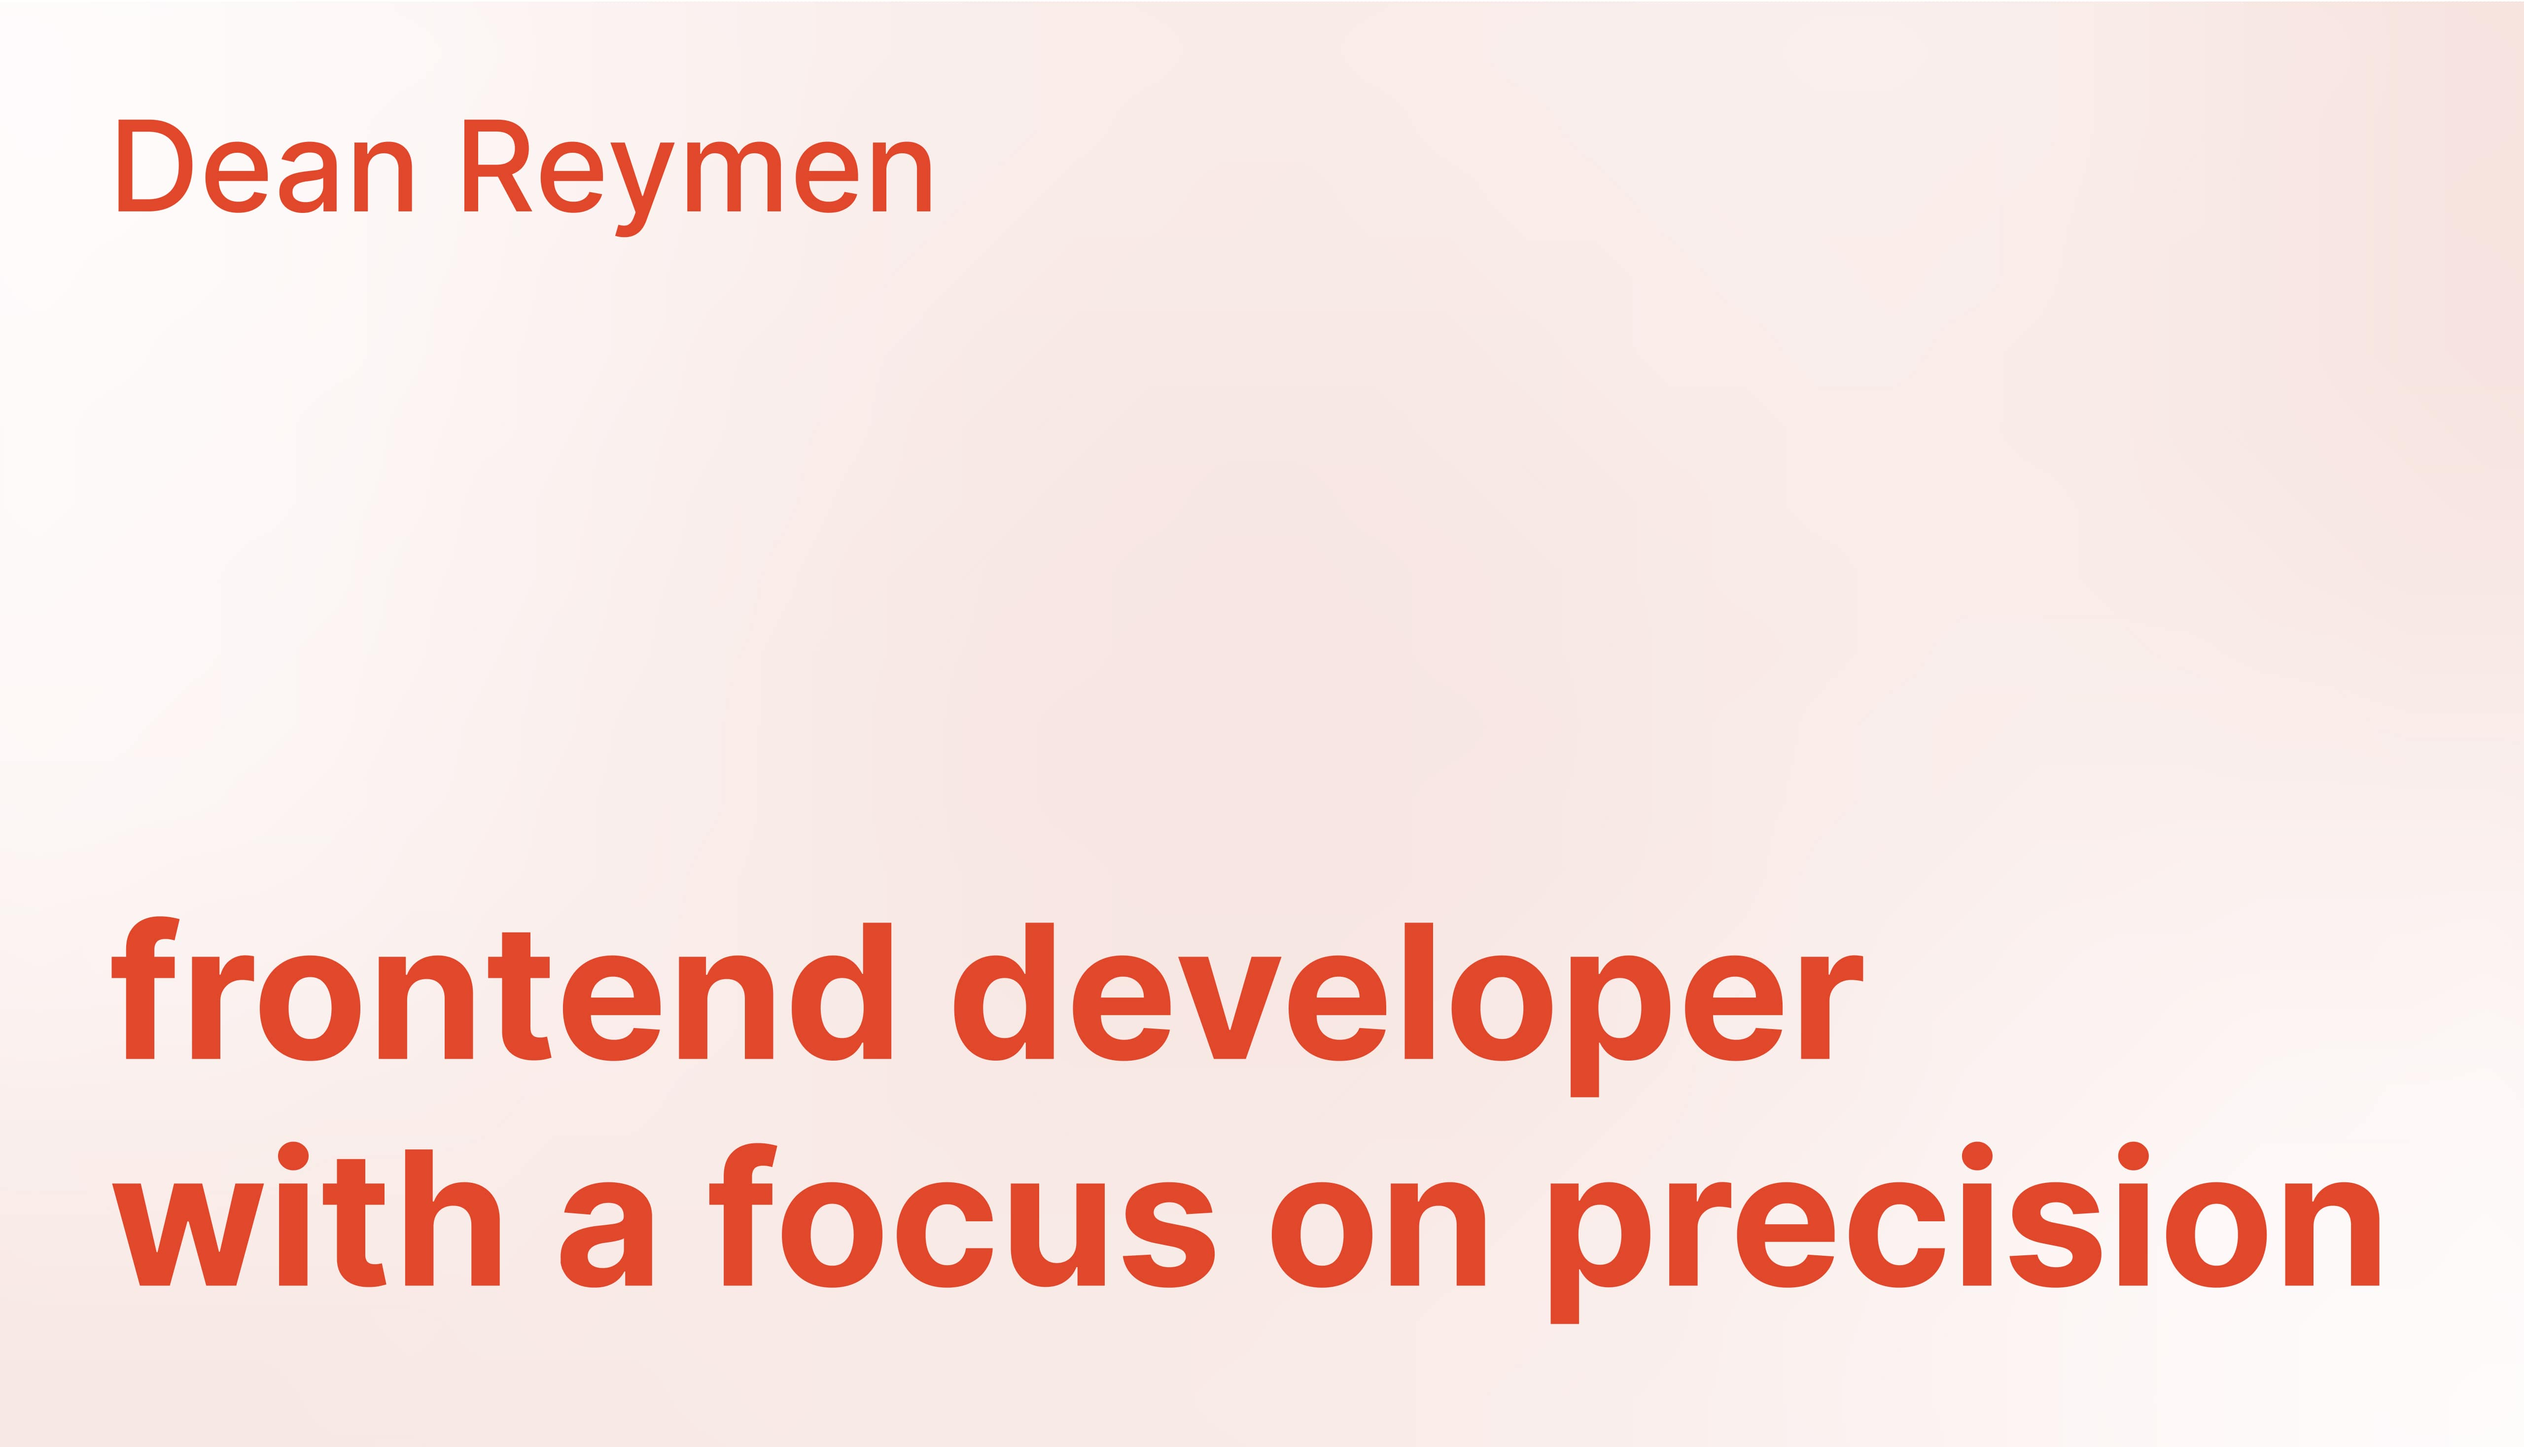
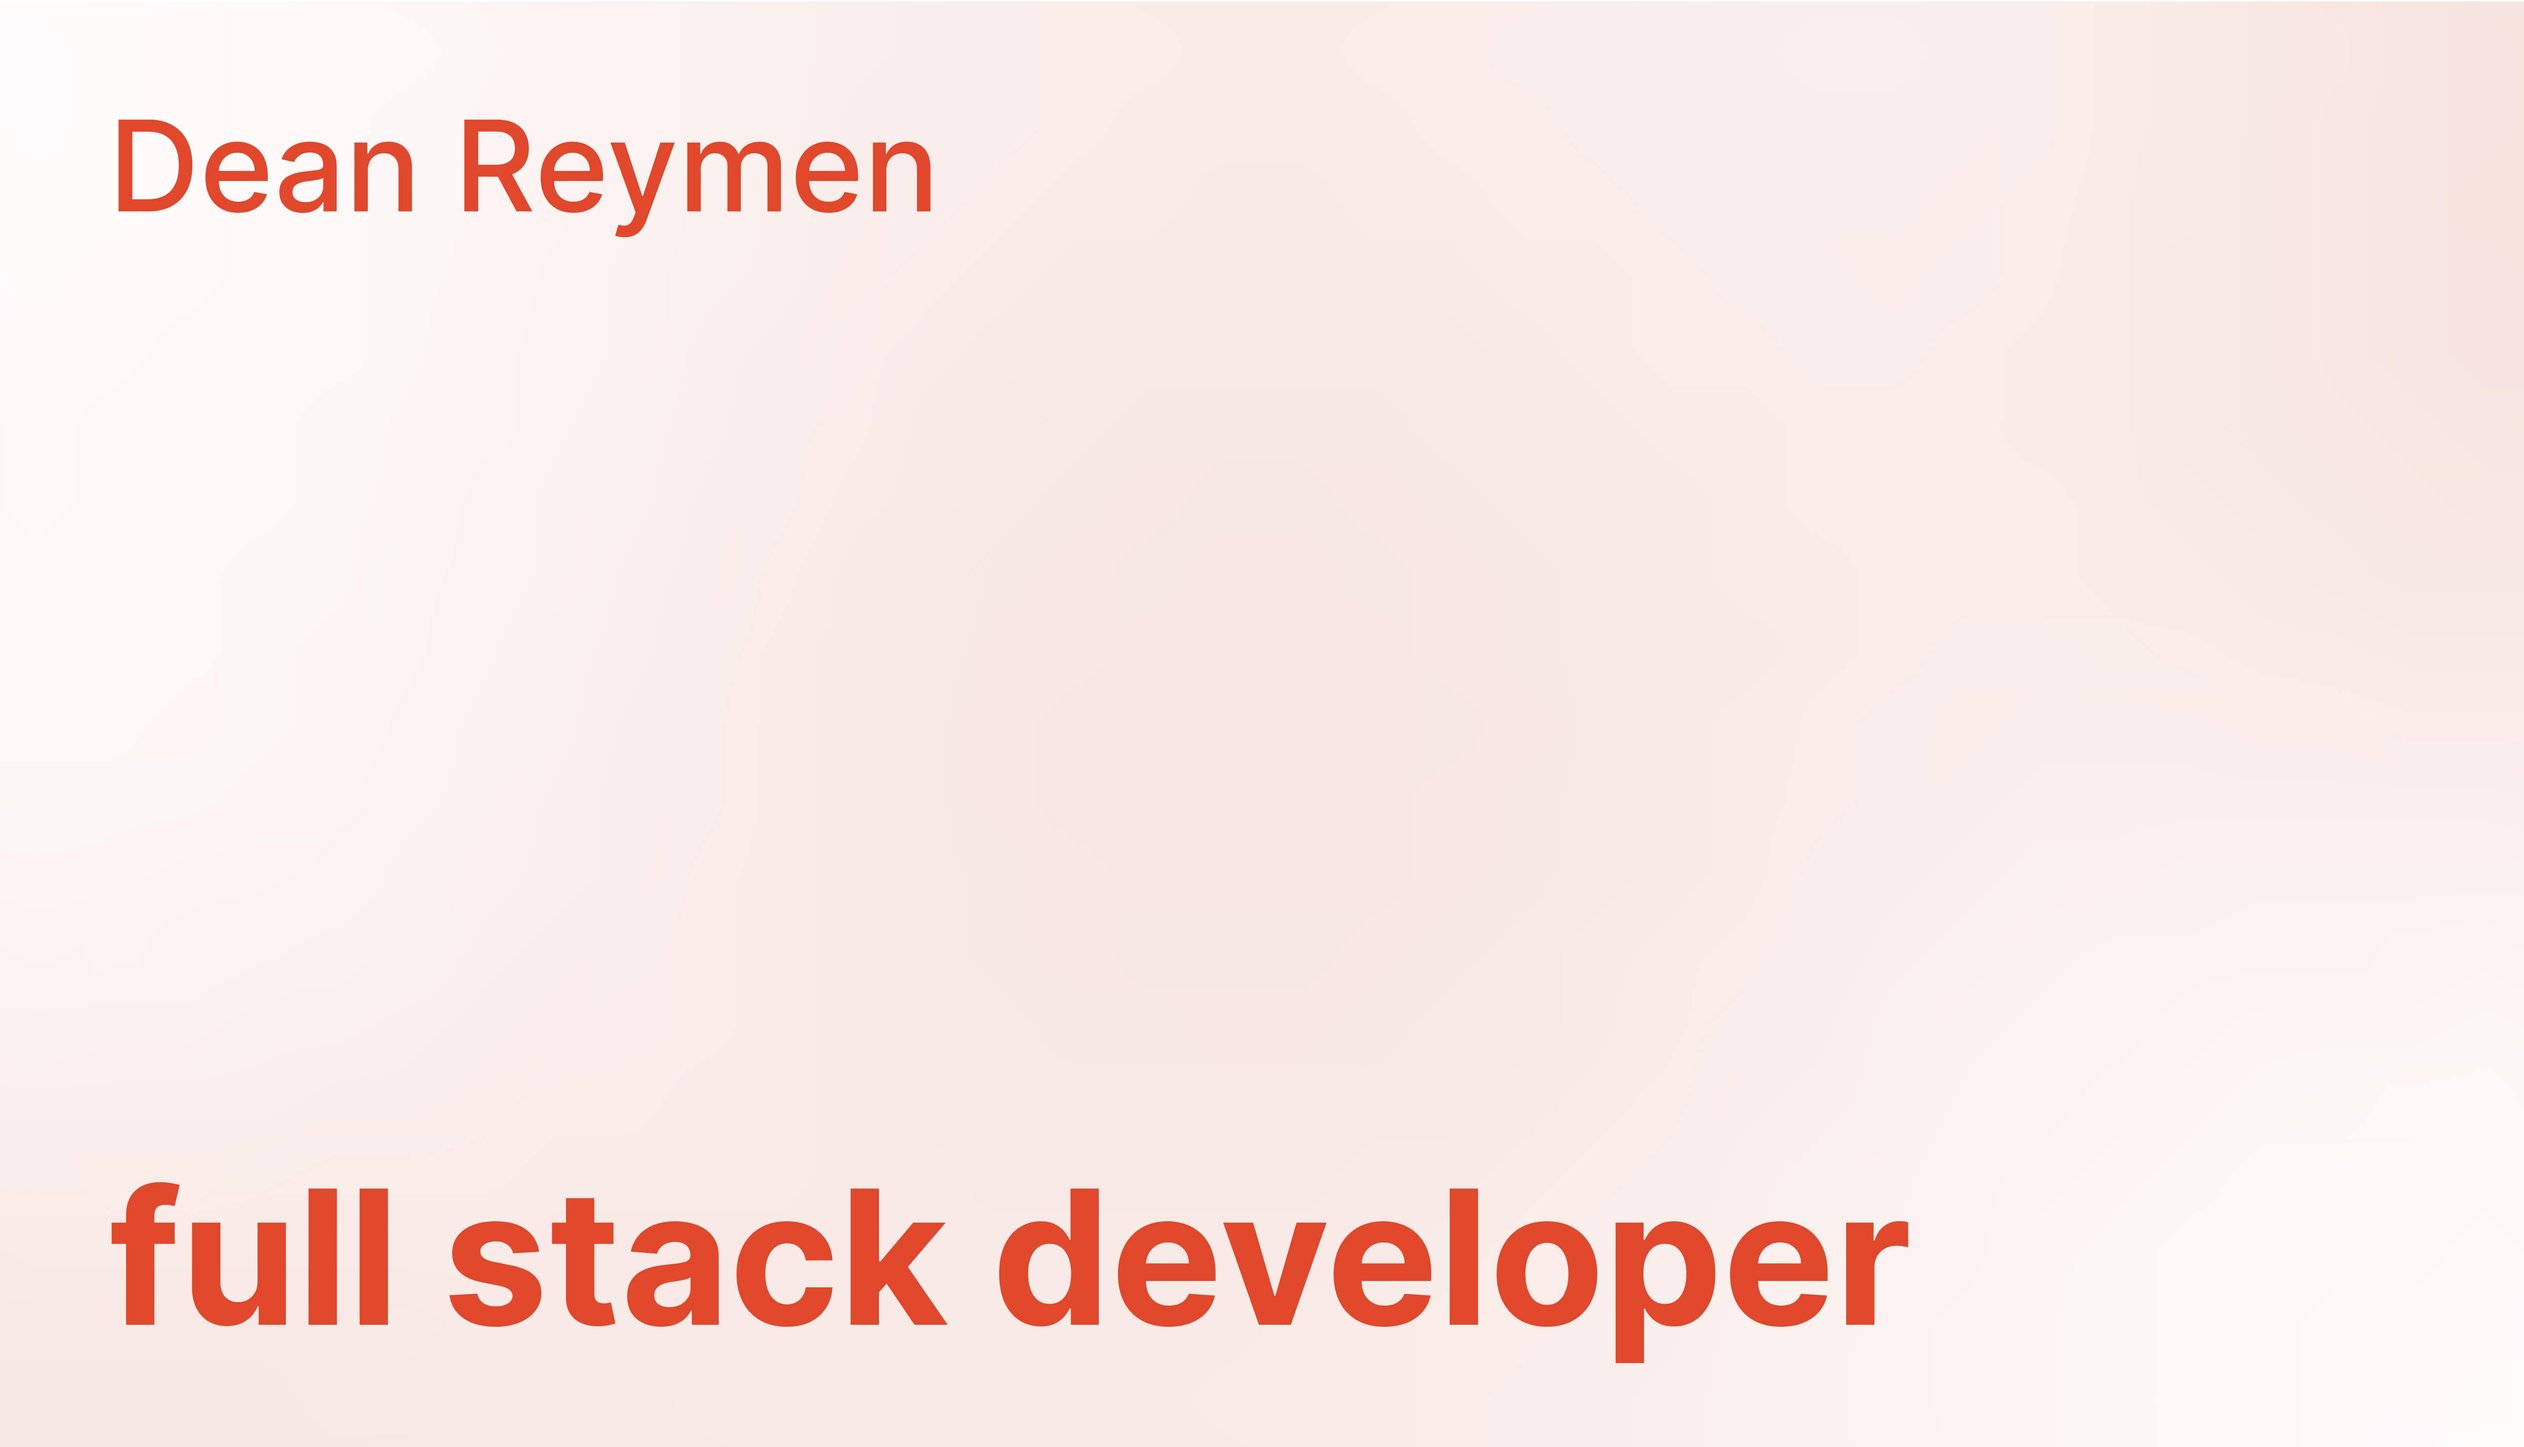
feat: update info

Changed region(s): [[0.0312, 0.7749, 0.9688, 0.9608], [0.0312, 0.6199, 0.75, 0.7749]]

diff --git a/index.html b/index.html
@@ -7,12 +7,12 @@
     <link rel="preload" href="/background-dark.svg" as="image" />
     <link rel="preload" href="/background-light.svg" as="image" />
 
-    <title>Dean Reymen</title>
-    <meta name="description" content="This is like a resume of my professional journey as a frontend developer." />
+    <title>Dean Reymen | Full Stack Developer</title>
+    <meta name="description" content="This is like a resume of my professional journey as a full-stack developer." />
 
     <meta property="og:title" content="Dean Reymen" />
     <meta property="og:site_name" content="Dean Reymen" />
-    <meta property="og:description" content="This is like a resume of my professional journey as a frontend developer." />
+    <meta property="og:description" content="This is like a resume of my professional journey as a full-stackdeveloper." />
     <meta property="og:type" content="website" />
     <meta property="og:url" content="https://deanreymen.be/" />
     <meta property="og:image" content="https://raw.githubusercontent.com/deenr/portfolio/refs/heads/main/thumbnail.jpg" />
@@ -22,7 +22,7 @@
     <meta property="og:image:height" content="628" />
 
     <meta property="twitter:title" content="Dean Reymen" />
-    <meta property="twitter:description" content="This is like a resume of my professional journey as a frontend developer." />
+    <meta property="twitter:description" content="This is like a resume of my professional journey as a full-stackdeveloper." />
     <meta property="twitter:image" content="https://raw.githubusercontent.com/deenr/portfolio/refs/heads/main/thumbnail.jpg" />
     <meta name="twitter:card" content="summary_large_image" />
 

diff --git a/src/components/Projects.tsx b/src/components/Projects.tsx
@@ -6,7 +6,7 @@ const projects = [
     title: 'Rise2Role',
     description: 'Rise2Role streamlines your job search with a simple Kanban board to track applications, stay organized, and visualize progress.',
     technologies: ['Next.js', 'Tailwind', 'shadcn/ui', 'Supabase'],
-    githubLink: 'https://github.com/deenr/rise2role',
+    githubLink: 'https://github.com/deenr/rise2role-nextjs',
     projectLink: 'https://r2r.deanreymen.be',
     creationDate: 'Dec 2024'
   },
